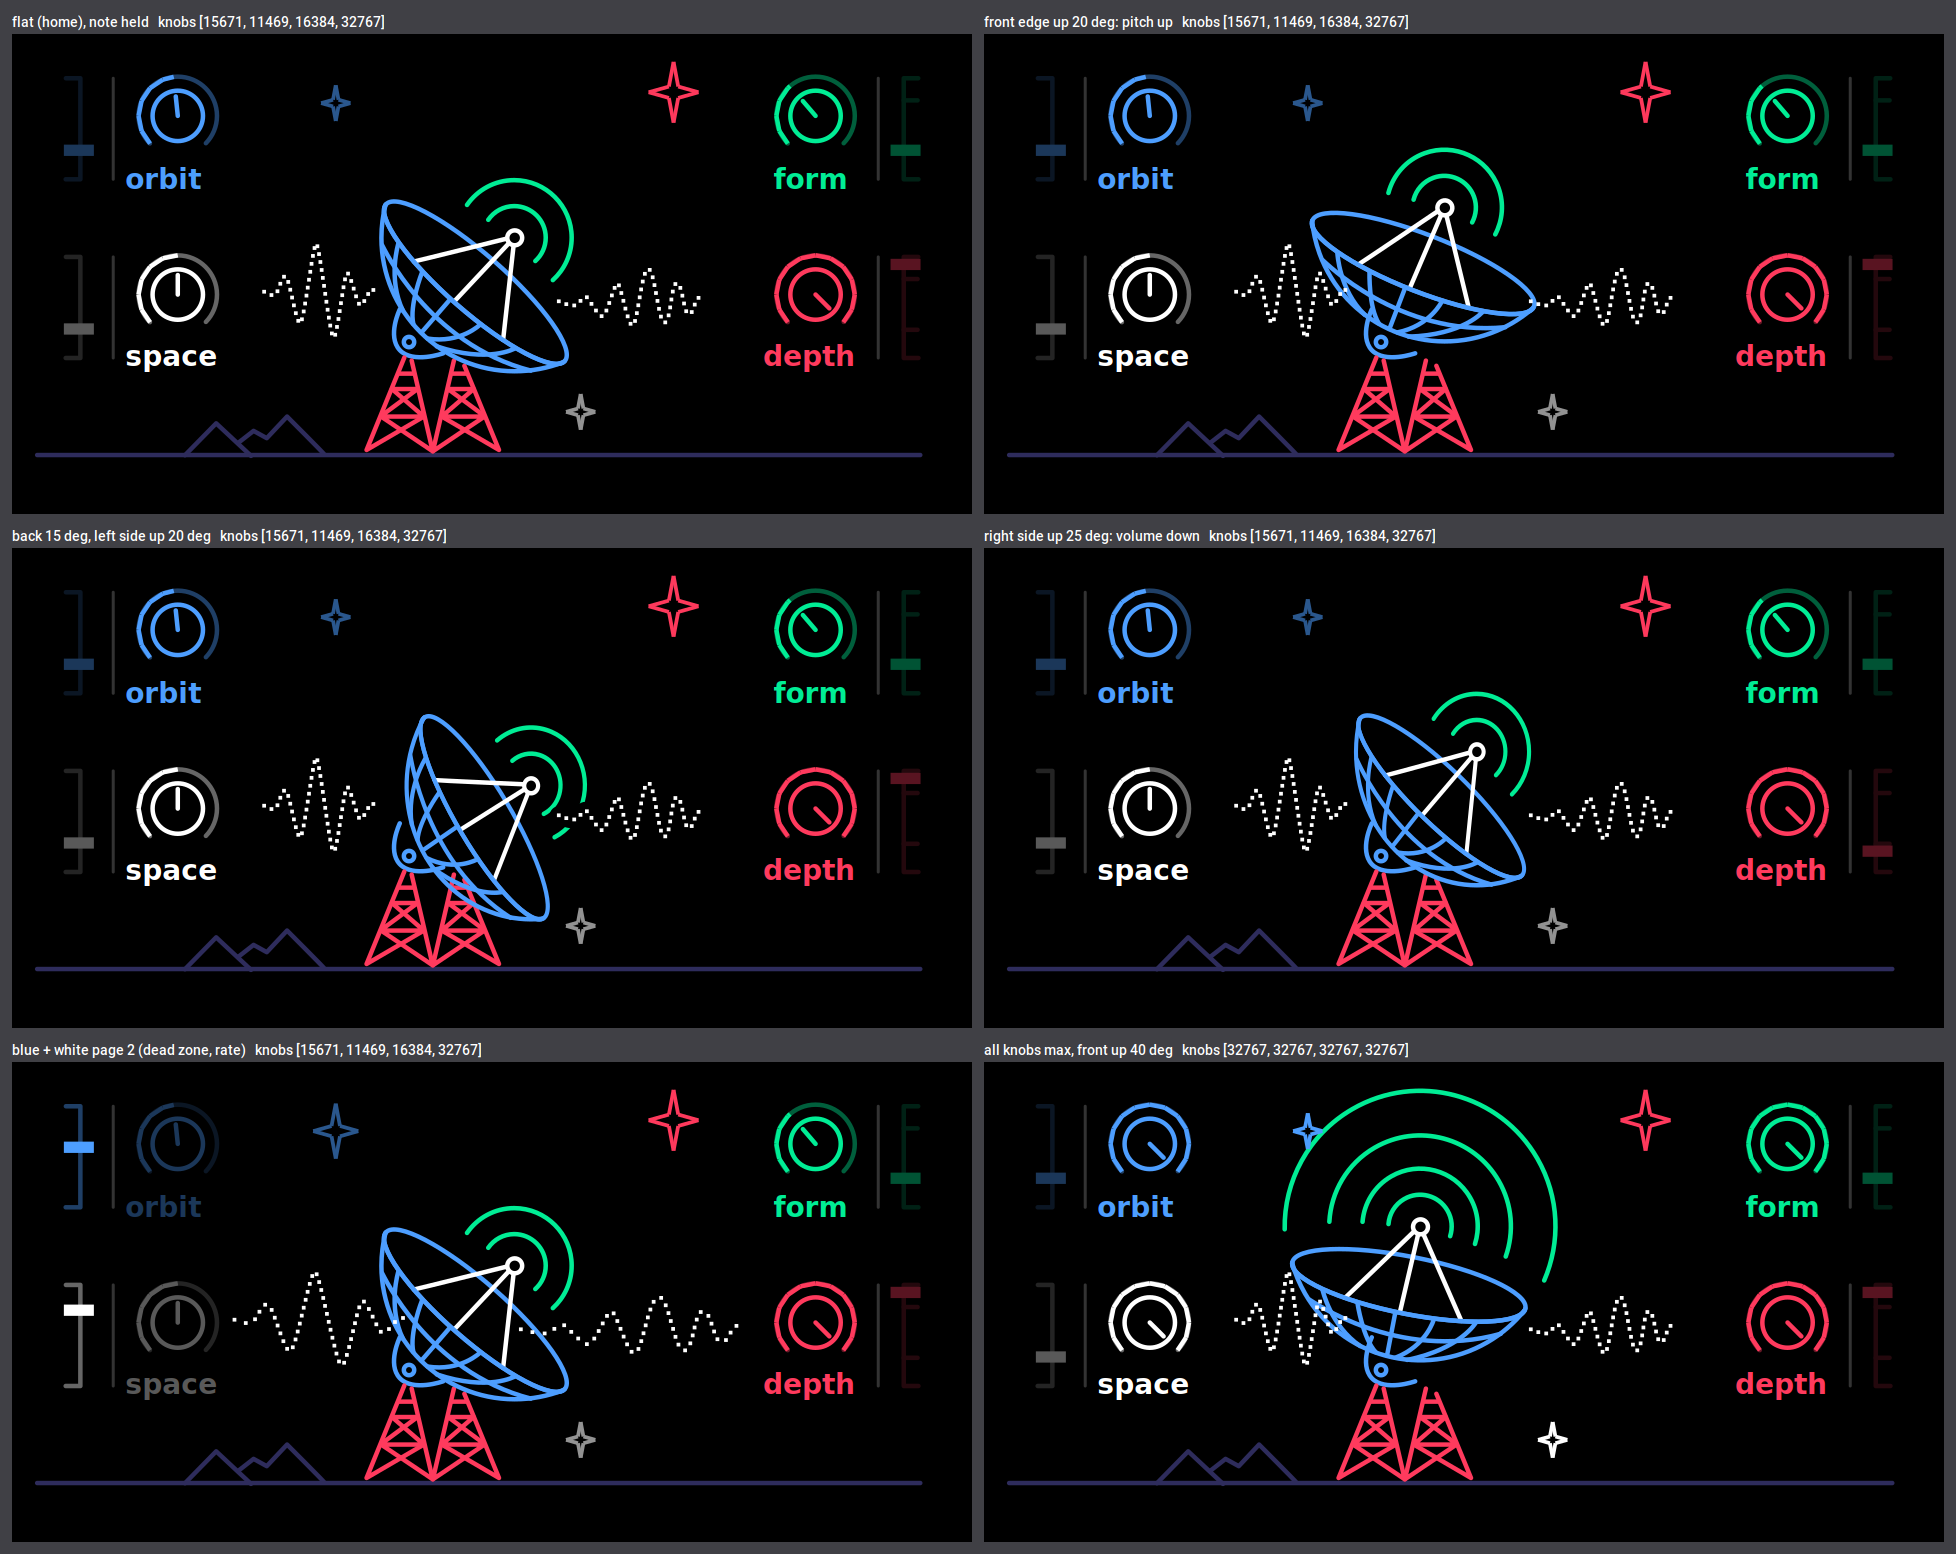
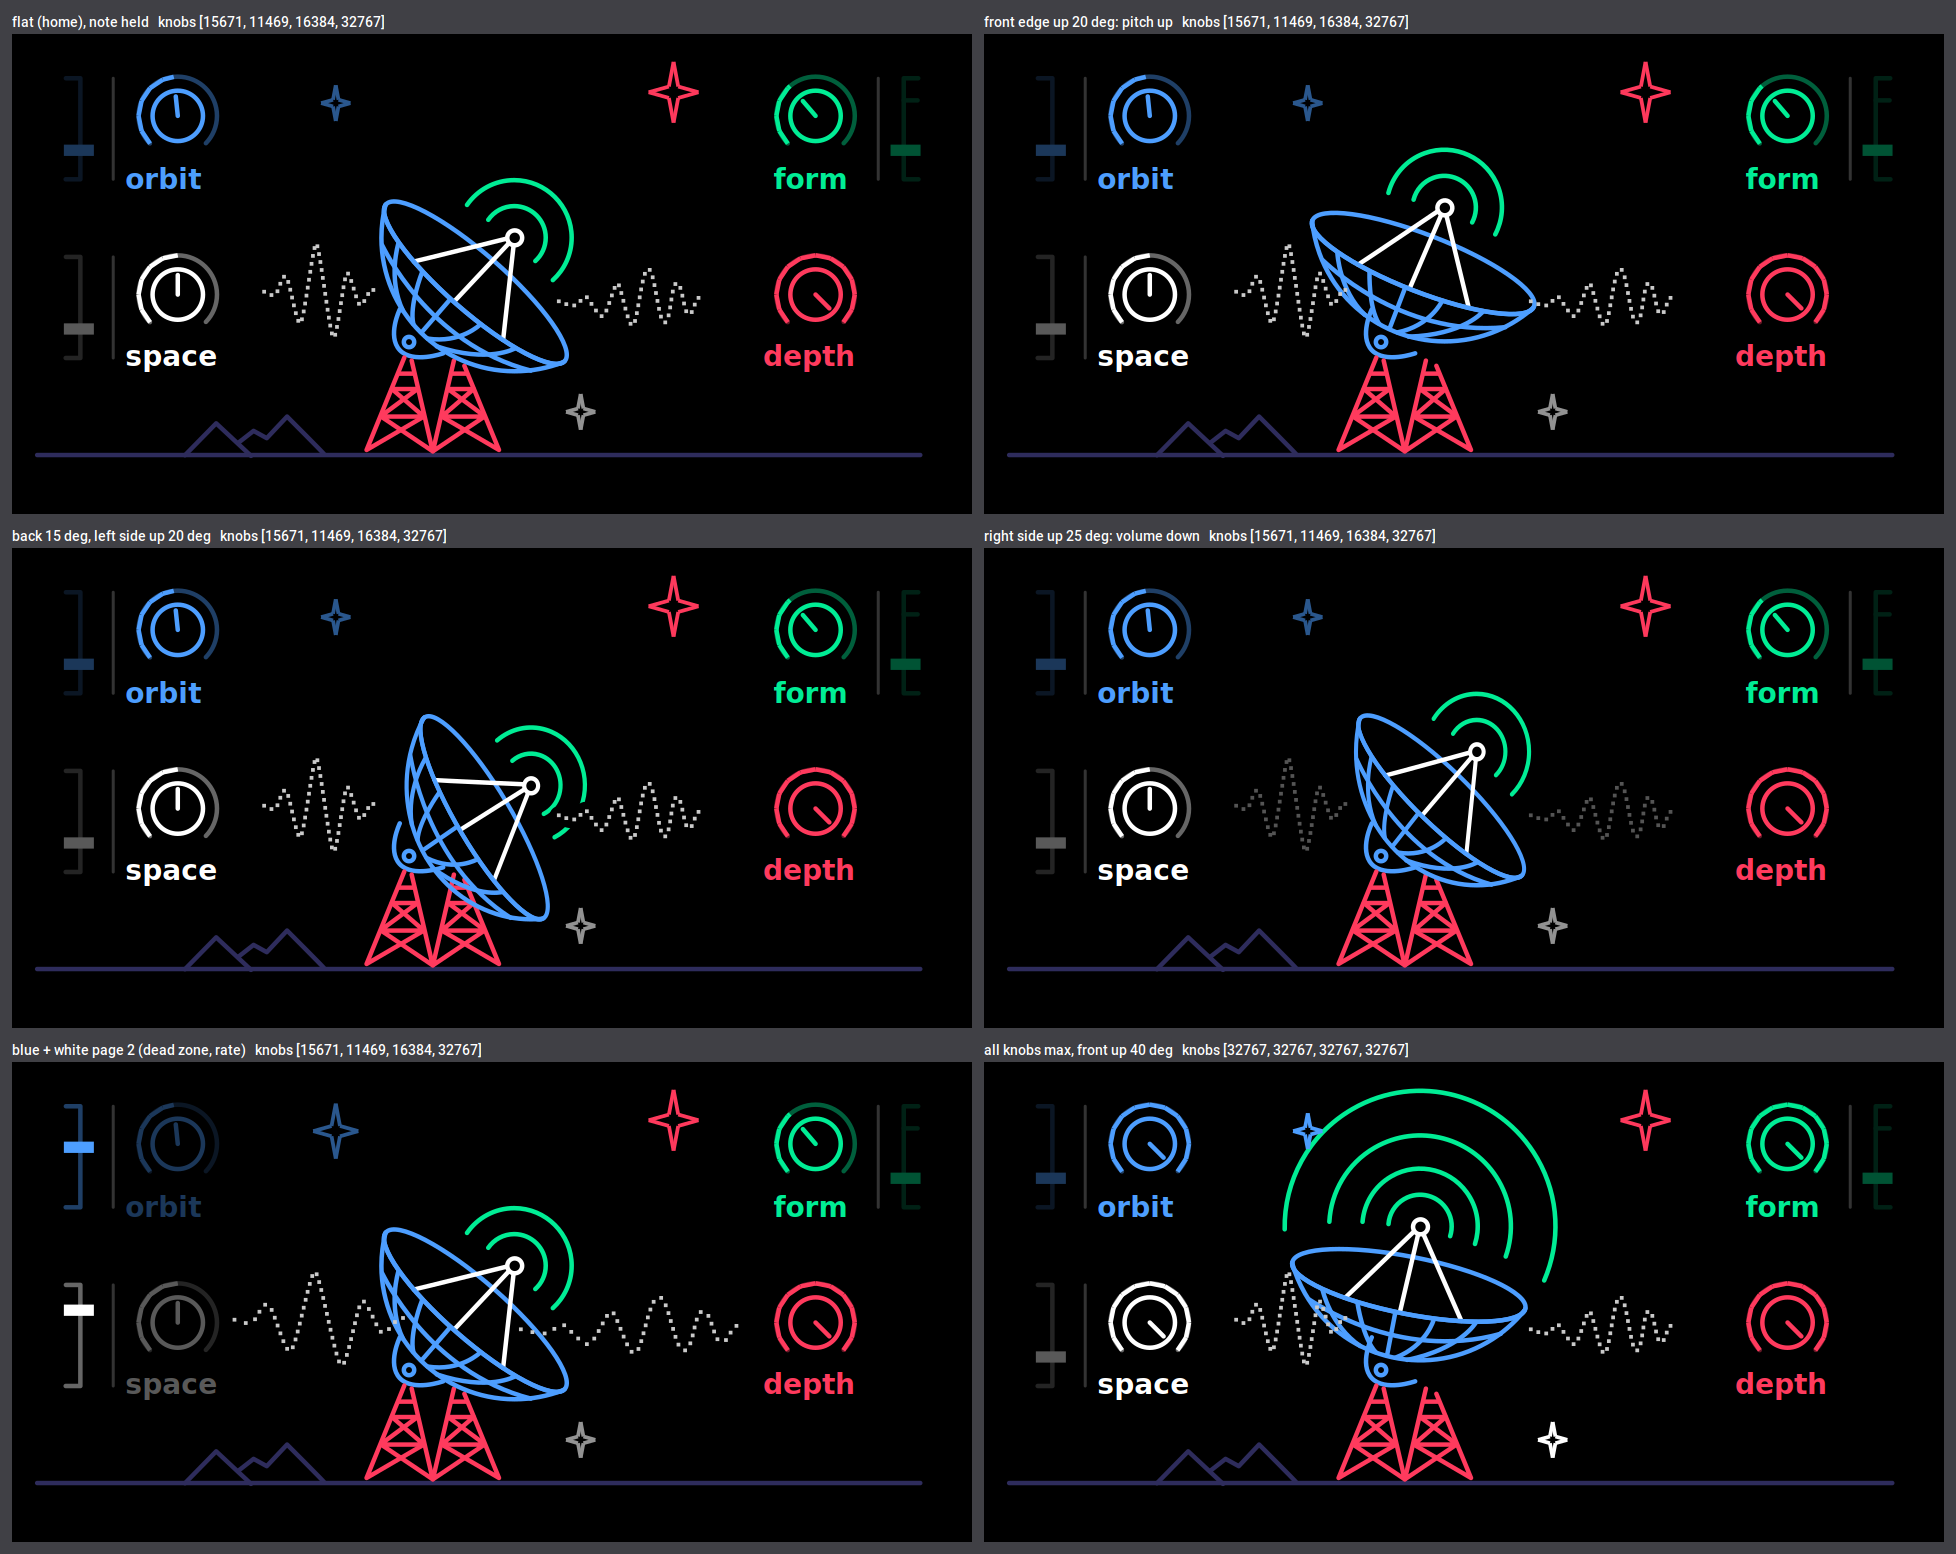
aether screen: signal dots follow the playing voice's stock envelope (OP1_VOICE_ENV, kept per voice at the end of render) x tilt volume, 25 .. 100 %; red slider (and its divider) removed

diff --git a/synth_sdk/plugins/aether/aether.c b/synth_sdk/plugins/aether/aether.c
@@ -28,6 +28,7 @@ typedef struct {
     int32_t env;                      /* shake envelope, Q15 */
     int32_t gain, mult;               /* gain Q15, pitch multiplier Q14 (end of the last block) */
     int32_t semis;                    /* pitch bend incl. vibrato, semitones Q16 (screen) */
+    int32_t envl;                     /* stock envelope (T2) at the block's end, Q15 (screen) */
     int16_t hx, hy;                   /* home (raw) */
 } ae_t;
 static ae_t st[OP1_VOICES];
@@ -68,7 +69,7 @@ static void ae_note_on(void *self, const int16_t *params)
     ae_t *s = &st[ae_cur];
     for (int i = 0; i < 3; i++) { s->sm[i] = s->prev[i] = AE_ACCEL[i] * 256; s->slow[i] = 0; }
     s->hx = AE_ACCEL[0]; s->hy = AE_ACCEL[1];
-    s->ph = 0; s->env = 0; s->gain = 32767; s->mult = 16384;
+    s->ph = 0; s->env = 0; s->gain = 32767; s->mult = 16384; s->envl = 0;
 }
 
 static void ae_render(void *self, int16_t *out, const int16_t *params)
@@ -129,6 +130,7 @@ static void ae_render(void *self, int16_t *out, const int16_t *params)
         out[n] = op1_sat16((((x * g >> 15) * vg >> 15) * LEVEL) >> 15);   /* all 32-bit */
     }
     s->ph = ph; s->mult = m1; s->gain = g1;
+    s->envl = OP1_VOICE_ENV[OP1_BLOCK - 1];                     /* computed before render (docs: OP1_VOICE_ENV) */
 }
 
 const op1_engine_t ENGINE_aether = { ae_note_on, ae_render, 0, { OP1_PRESS_PAGE, OP1_PRESS_PAGE, OP1_PRESS_PAGE, OP1_PRESS_NONE } };
@@ -139,10 +141,9 @@ const op1_engine_t ENGINE_aether = { ae_note_on, ae_render, 0, { OP1_PRESS_PAGE,
  * about its hinge (elevation, +-30 degrees), the side tilt turns it around (azimuth: squeezed horizontally, mirrored
  * past 90 degrees). FORM (green knob) shows 1..4 radio waves, which shake while a voice plays. Dials (needle + value
  * arc) = the knobs: blue ORBIT = range, green FORM = timbre, white SPACE = vibrato, red DEPTH = volume tilt; sliders =
- * the page-2 values (dead zone, tilt range, vibrato rate), red: the playing voice's volume. The active page is bright,
- * the other dim (red: the dial; its slider only shows). Stars: blue / white / red, brightness = ORBIT / SPACE / DEPTH.
+ * the page-2 values (dead zone, tilt range, vibrato rate); red has none. The active page is bright, the other dim. Stars: blue / white / red, brightness = ORBIT / SPACE / DEPTH.
  * Page-2 values also shape the picture: blue = blue star size, green = wave shake depth, white = signal stretch; the
- * signals brighten while a voice plays.
+ * signals follow the playing voice's envelope (T2) and tilt volume.
  * Labels in the stock font, the dotted signals drawn here (AGG ran out of cell blocks on them as SVG). */
 #include "op1_synth.h"                    /* stock-font text (firmware calls, no imports) */
 #include "aether_geom.h"
@@ -151,7 +152,7 @@ static const uint8_t ae_col[4][4] = { { 0x4D, 0x9E, 0xFF, 0xFF }, { 0x00, 0xED, 
 #define AE_DIM 90                     /* the inactive page: 35 % (as the SVG's dim copies) */
 static int32_t sx, sy, sz = 16384;    /* smoothed sensor (screen) */
 static uint32_t wob;                  /* wave shake phase */
-static void *dish, *waves, *wave[4], *dl[2][4], *ndl[2][4], *sl[2][4], *hdl[2][4];   /* [0] bright, [1] dim */
+static void *dish, *waves, *wave[4], *dl[2][4], *ndl[2][4], *sl[2][3], *hdl[2][3];   /* [0] bright, [1] dim; red: no slider */
 static uint32_t lab[2][4][OP1_TEXT_SIZE / 4];
 static uint8_t lab_made;
 #ifndef OP1_HOST
@@ -183,7 +184,7 @@ static void ae_screen_init(void *scr)
         wave[i] = op1_find_node(scr, wid[i]);
         for (int b = 0; b < 2; b++) {
             dl[b][i] = op1_find_node(scr, id[b][i]); ndl[b][i] = op1_find_node(scr, id[2 + b][i]);
-            sl[b][i] = op1_find_node(scr, id[4 + b][i]); hdl[b][i] = op1_find_node(scr, id[6 + b][i]);
+            if (i < 3) { sl[b][i] = op1_find_node(scr, id[4 + b][i]); hdl[b][i] = op1_find_node(scr, id[6 + b][i]); }
         }
     }
 }
@@ -251,15 +252,15 @@ static void ae_screen_update(void *scr, int dt)
     int32_t ang[4];
     for (int i = 0; i < 4; i++) {
         ang[i] = ((int32_t)k[i] * 6144 >> 15) - 3072;                   /* -135 .. +135 degrees */
-        int32_t v = i < 3 ? page_word(w, 5 + i) : s->gain;              /* page 2 / red: the voice's volume */
+        int32_t v = i < 3 ? page_word(w, 5 + i) : 0;                    /* page 2 (red: no slider) */
         int32_t dy = AE_SLD_HALF_Q10 - (int32_t)((int64_t)2 * AE_SLD_HALF_Q10 * v >> 15);
         int32_t mt[9] = { 1024, 0, 0, 0, 1024, 0, 0, dy, 1024 };
-        int sb = !act[i] && i < 3;                                      /* slider bright (red: always dim) */
+        int sb = !act[i];                                               /* slider bright */
         for (int bb = 0; bb < 2; bb++) {
             if (ndl[bb][i]) op1_node_rotate(ndl[bb][i], ae_dial_x[i], ae_dial_y[i], dsin(ang[i]), dcos(ang[i]));
-            if (hdl[bb][i]) op1_node_set_transform(hdl[bb][i], mt);
+            if (i < 3 && hdl[bb][i]) op1_node_set_transform(hdl[bb][i], mt);
             if (dl[bb][i]) op1_node_set_visible(dl[bb][i], bb == !act[i]);
-            if (sl[bb][i]) op1_node_set_visible(sl[bb][i], bb == !sb);
+            if (i < 3 && sl[bb][i]) op1_node_set_visible(sl[bb][i], bb == !sb);
         }
     }
     op1_screen_draw(scr, dt);
@@ -280,9 +281,10 @@ static void ae_screen_update(void *scr, int dt)
             if (e >= ang[i]) break;
         }
     }
-    /* dotted signals: stretched about their centres by the white page-2 word, brighter while playing */
+    /* dotted signals: stretched about their centres by the white page-2 word, brightness follows the playing voice's envelope */
     uint8_t c_dot[4];
-    dimc(c_dot, ae_col[2], playing ? 256 : 140);
+    int32_t el = playing ? s->envl * (s->gain >> 7) >> 15 : 0;        /* envelope x tilt volume, 0..255 */
+    dimc(c_dot, ae_col[2], 64 + (el * 192 >> 8));                     /* 25 % .. 100 % */
     int32_t stretch = 768 + (page_word(w, 7) * 1024 >> 15);               /* Q10: 0.75 .. 1.75 x (unset: 1 x) */
     for (unsigned q = 0, sg = 0; q < sizeof ae_dot / sizeof ae_dot[0]; q++) {
         while (q >= ae_dot_end[sg]) sg++;

diff --git a/synth_sdk/plugins/aether/gen_svg.py b/synth_sdk/plugins/aether/gen_svg.py
@@ -9,7 +9,7 @@ up by Y_SHIFT (content above ~y 140). Moving / code-drawn parts:
   dish     group: the dish and its feed, waves: the radio waves (under the right signal's mask); aether.c rotates both about the hinge (elevation, front /
            back tilt) and squeezes it horizontally (azimuth, side tilt)
   ndl0..3  dial needles, rotated by the knobs (blue ORBIT, green FORM, white SPACE, red DEPTH)
-  sld0..3  slider handles, moved by the page-2 words (red: the voice's volume)
+  sld0..2  slider handles, moved by the page-2 words (red has none)
   the dial value arcs are drawn by aether.c (geometry in aether_geom.h)
 """
 import math, os, re, xml.etree.ElementTree as ET
@@ -291,6 +291,7 @@ def svg():
             k = next(d['k'] for d in DIALS if abs((it['ops'][0][1] + it['ops'][1][1]) / 2 - d['sx']) < 2
                      and d['sy0'] < it['ops'][0][2] - Y_SHIFT < d['sy1'])
             handles[k] = it; continue
+        if it['tag'] == 'line' and abs(ox - 288.75) < 0.1 and oy > 60: continue   # red: the divider of its (removed) slider
         dk = next((d['k'] for d in DIALS if near_dial(it, d)), None)
         if dk is not None: dial_parts[dk].append(it); continue
         sk = next((d['k'] for d in DIALS if near_slider(it, d)), None)
@@ -308,6 +309,7 @@ def svg():
             o.append(f'<line id="n{"l" if sfx else "d"}{k}" fill="none" stroke="{col(d["c"], dm)}" stroke-width="1.5" '
                      f'stroke-linecap="round" x1="{f2(cx)}" y1="{f2(cy)}" x2="{f2(cx)}" y2="{f2(cy - 6.5)}"/>')
             o.append('</g>')
+            if k == 3: continue                    # red: no slider (no page 2)
             o.append(f'<g id="s{sfx}{k}">')
             for it in slider_parts[k]: emit(it, dim=dm)
             o.append(f'<path id="h{"d" if sfx else "b"}{k}" fill="{col(d["c"], dm)}" d="M{f2(d["sx"] - 5)} {f2(ym - 1.88)}'

diff --git a/synth_sdk/harness/screen_harness.c b/synth_sdk/harness/screen_harness.c
@@ -16,7 +16,7 @@
 int16_t  host_sine[8192];
 int32_t  host_pitch_inc[128];
 uint8_t  host_voice_mem[6 * 0x24];
-int16_t  host_voice_vel[6]; int16_t host_accel[3] = { 0, 0, 16384 };
+int16_t  host_voice_vel[6]; int16_t host_voice_env[128]; int16_t host_accel[3] = { 0, 0, 16384 };
 int16_t  host_knobs[8][8];
 int      host_slot;
 const uint8_t *host_sample_buffer[8];
@@ -125,6 +125,7 @@ int main(int argc, char **argv)
     int16_t out[OP1_BLOCK];
     void *v0 = OP1_VOICE(0);
     *(uint32_t *)v0 = 0xdeadbeef;                           /* firmware vtable word */
+    for (int i = 0; i < 128; i++) host_voice_env[i] = 24000;   /* stock envelope: sustaining */
     if (note) ENGINE.note_on(v0, host_knobs[0]);
     if (getenv("HOST_ACCEL")) sscanf(getenv("HOST_ACCEL"), "%hd,%hd,%hd", &host_accel[0], &host_accel[1], &host_accel[2]);   /* after note-on: tilted from home */
     SCREEN.init(0);

diff --git a/synth_sdk/harness/aether_test.c b/synth_sdk/harness/aether_test.c
@@ -6,7 +6,7 @@
 #include <math.h>
 #include <stdio.h>
 #include <stdlib.h>
-int16_t host_sine[8192]; int32_t host_pitch_inc[128]; uint8_t host_voice_mem[6 * 0x24]; int16_t host_voice_vel[6];
+int16_t host_sine[8192]; int32_t host_pitch_inc[128]; uint8_t host_voice_mem[6 * 0x24]; int16_t host_voice_vel[6]; int16_t host_voice_env[128];
 int16_t host_accel[3];
 volatile uint8_t op1_eng_page[4];
 int16_t host_knobs[8][8]; int host_slot;                                 /* screen stubs (screen not drawn here) */
